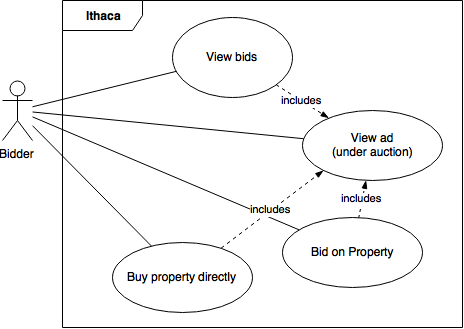
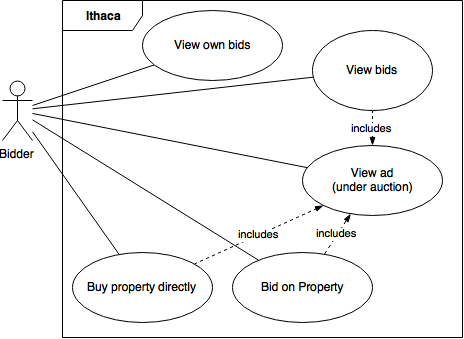
Fix issue #72. Updated SRS. Updated gitignore.

diff --git a/documentation/srs.md b/documentation/srs.md
@@ -588,6 +588,18 @@ The following sections describe abbreviations and special terms used in this doc
 ||2. A popup containing a list of the 10 most recent bids is shown.|
 |**Alternate flow**|None|
 
+|Use case element|Description|
+|:---|:---|
+|**ID**|`uc38`|
+|**Name**|View own bids|
+|**Description**|The user gets an overview over all the auctions in which he participated.|
+|**Primary actor**|The user of the web application|
+|**Precondition**|The user is logged into the application and participated in at least one auction.|
+|**Trigger**|The user wants to see his own bids.|
+|**Normal flow**|1. The user clicks on the menu point "My bids"|
+||2. A page containing a list of all his auctions and his bids shows up.|
+|**Alternate flow**|None|
+
 ##### Auction management
 
 ![AuctionManagement](images/AuctionManagement.png)
@@ -835,6 +847,10 @@ The advertiser can specify multiple possible *visiting times* for enquiries. A v
 When an ad is up for sale and the owner has chosen the *auction* option, users can bid on the property. There is also a "buy directly" price. Both startprice for bidding and bidding increment is specified by the property owner, as is the direct buy price. The auction has an end date when it is no longer possible to bid.
 
 Users can either bid for an auction or make a purchase request to buy the property directly. Users can bid multiple times for the same ad. But they can only make one purchase request per ad.
+
+Users can see the last few bids for an ad. This gives them a hint to the strategy of other bidders.
+
+A user can get an overview over all the auctions, in which he participated.
 
 Advertisers can manage their properties which are put under auction. Auctions can be in different states:
 
